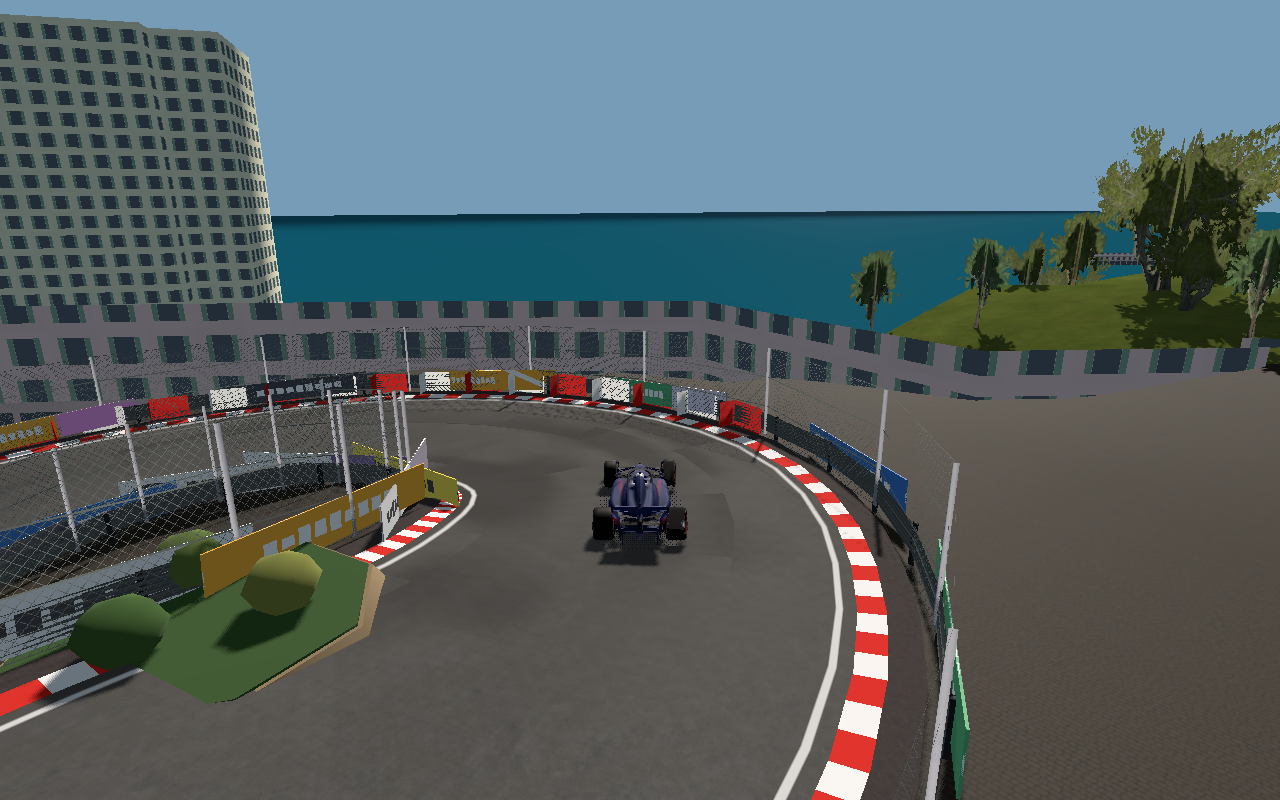
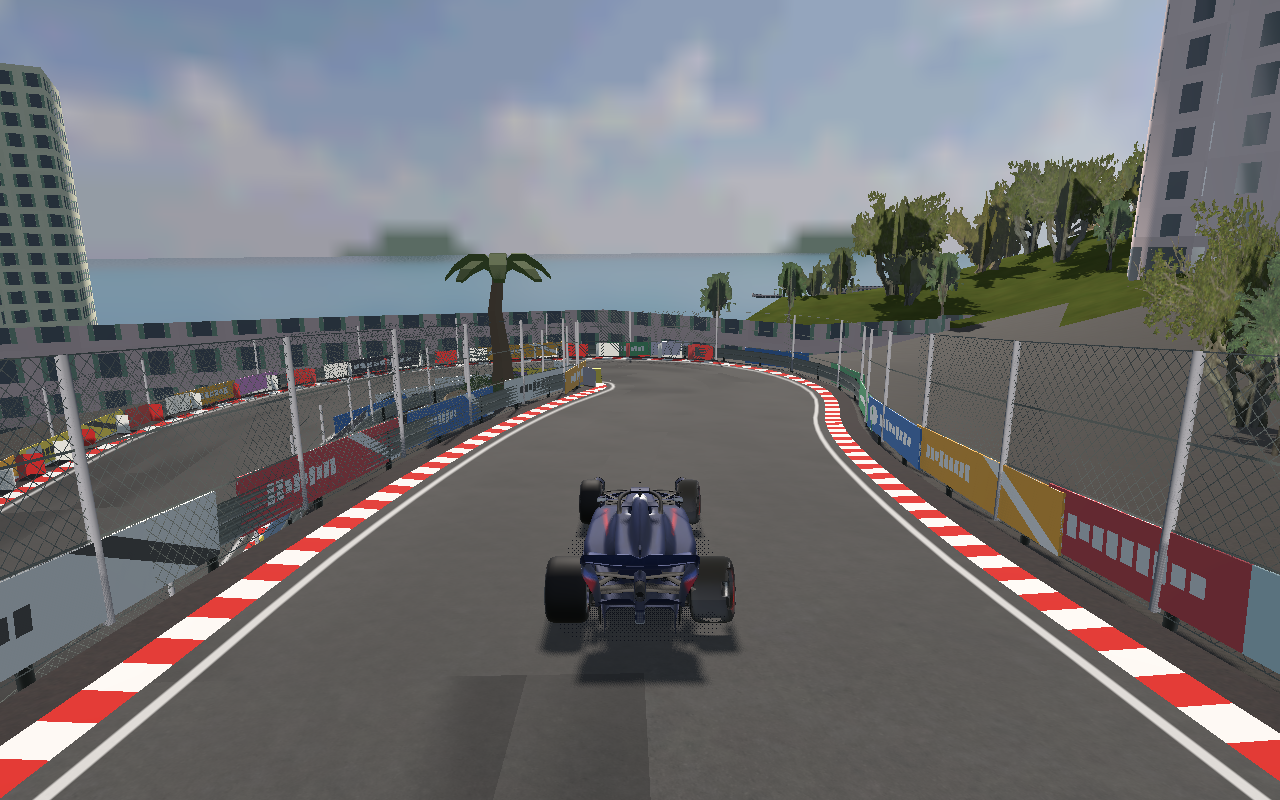
Correct Fairmont planting and verify formula input paths

diff --git a/godot/docs/REBUILD-LOG.md b/godot/docs/REBUILD-LOG.md
@@ -2943,3 +2943,12 @@ References: Commons "Circuit de Monaco - Virage de la Piscine", "- Sortie du vir
 - Removed the two temporary Pool-side grandstand structures, which were still reading as continuous walls in the focused in-game view. Extended the mapped wall/fence-free span 70 m beyond the Rascasse-side exit while keeping the Tabac-side boundary at its mapped entry; a 70 m entry buffer failed the Tabac barrier regression, so it was reverted.
 - Added a regression that checks the Rascasse barrier as well as the Tabac barrier, kept the full-gap wall-layer rays, bumped Monaco track version to 4, and refreshed the windowed Pool screenshot.
 - **Validation:** `run_gates.ps1 -Only monaco,parse -Timeout 120`: 2/2 PASS, 18 Monaco checks (logs `tests/logs/gates/20260929-221340/`). `run_gates.ps1 -Only monaco,scenery,parse -Timeout 120`: 3/3 PASS before the final asymmetric boundary adjustment. Vulkan capture succeeded. The earlier full 48-gate run predates this scenery-only follow-up.
+
+## 2026-09-29 Fairmont planting and input-path follow-up (Codex)
+- Replaced the three sphere shrubs with the existing credited foliage and a CC0 Kenney Nature Kit palm, recoloured to olive foliage and brown bark. Increased the low bed's circular segments and changed its fill to soil.
+- The top-down capture exposed the bed crossing the inside barrier: the named OSM hairpin marker is near the exit, so its circumcentre was wrong. Locate the tightest nearby bend before placing the island; centreline clearance is now 9.35 m. Expose `fairmont_apex` for captures and acceptance runs without changing the road geometry or records identity (version 4).
+- Replaced the old marker-based geometric claim about 45 km/h steering with actual driving acceptance through the full hairpin. The check failed when moved to the true bend; the driving checks start at 45 km/h and brake through it. Both formulas × both handling models × keyboard/controller event paths finish with zero wall contacts and off-track wheel ticks; minimum speeds 25.25–32.08 km/h. Defaults for keyboard ramps, controller deadzone and linearity are exercised. The steering reference remains automated, not a human playtest.
+- Focused captures now use a driving-height camera, with an explicit top-down island overview. The Monaco standalone preview uses the main game's painted flat-horizon sky. Added a Monaco filter/three shots to the existing main-game screenshot tool, and freed its helper SceneTree to remove shutdown resource leaks.
+- **Validation:** `run_gates.ps1 -Only monaco,scenery,parse,test_surfaces_scene -Timeout 120`: 4/4 PASS, 25 Monaco + 11 scenery + 14 scene checks; logs `tests/logs/gates/20260929-224916/`. Three main-game Vulkan captures succeeded with empty stderr after the helper cleanup; two standalone Fairmont captures succeeded. Pool capture shows open chicanes; no further wall removal in this follow-up.
+- **Still in progress:** full Monaco presentation objective. Generic footprint facades and coarse terrain terraces remain visible; these checks do not establish final art acceptance.
+- **Windowed drive:** main game `--v2-look --v2-flow-test --v2-track=monaco --v2-car=rb19`: 72/72 presentation checks PASS after the automated drive, empty stderr. Recorded mode averages 6.06–6.07 ms per frame on this RTX 4080 run; logs alongside the gates as `windowed-monaco.out/.err`. This is a recorded run, not a frame-rate guarantee.

diff --git a/godot/trackgen/data/monaco/README.md b/godot/trackgen/data/monaco/README.md
@@ -39,6 +39,17 @@ The Grand Prix lap on the real streets, built offline by `trackgen/monaco.gd` fr
 - Formula presets use 26° maximum front-wheel lock plus a 60 m/s speed falloff. Formula Monaco lap gates
   measure actual speed within 35 m of Fairmont's apex: F2004 stays above 25 km/h and RB19 above 30 km/h
   across Simulation and Simcade, with zero off-track wheel ticks, wall contacts or prop contacts.
+- Fairmont's named OSM marker is near the exit. `fairmont_apex` locates the tightest nearby bend for
+  the planting island, focused captures and input-path acceptance runs. The bed has 9.35 m centreline
+  clearance; it uses the existing credited foliage plus a recoloured CC0 Kenney palm.
+- `tests/v2/monaco.gd` also drives both formulas through Fairmont using injected W/A/S/D or controller
+  events, with default keyboard ramps and controller deadzone/linearity, in both handling models.
+  All eight cases must finish without off-track wheel ticks or wall contacts and stay above 24.5 km/h.
+  The driving reference is automated; these runs do not establish human playtest acceptance.
+
+Daylight screenshots through the main game's presentation chain (separate from the standalone
+track-drive captures): `--script tests/v2/track_screenshots.gd -- --v2-flow-test --track=monaco
+--v2-car=rb19 --out=res://docs/rebuild/screenshots/monaco-graphics/game`.
 
 ## Sources and licences
 

diff --git a/godot/THIRD-PARTY.md b/godot/THIRD-PARTY.md
@@ -137,6 +137,10 @@ landmark is used.
 
 ## ASSET-02 models (Sketchfab, downloaded by the owner 2026-09-26; reduced with tools/blender/)
 
+Monaco's Fairmont island palm: Kenney, [Nature Kit 2.1](https://kenney.nl/assets/nature-kit),
+CC0 1.0. Original `tree_palmDetailedTall.glb`, used at 4.5× scale. Model and original licence in
+`assets/nature/kenney/`.
+
 All CC BY 4.0 (https://creativecommons.org/licenses/by/4.0/). Modified: re-oriented, scaled, split, decimated,
 textures reduced.
 
